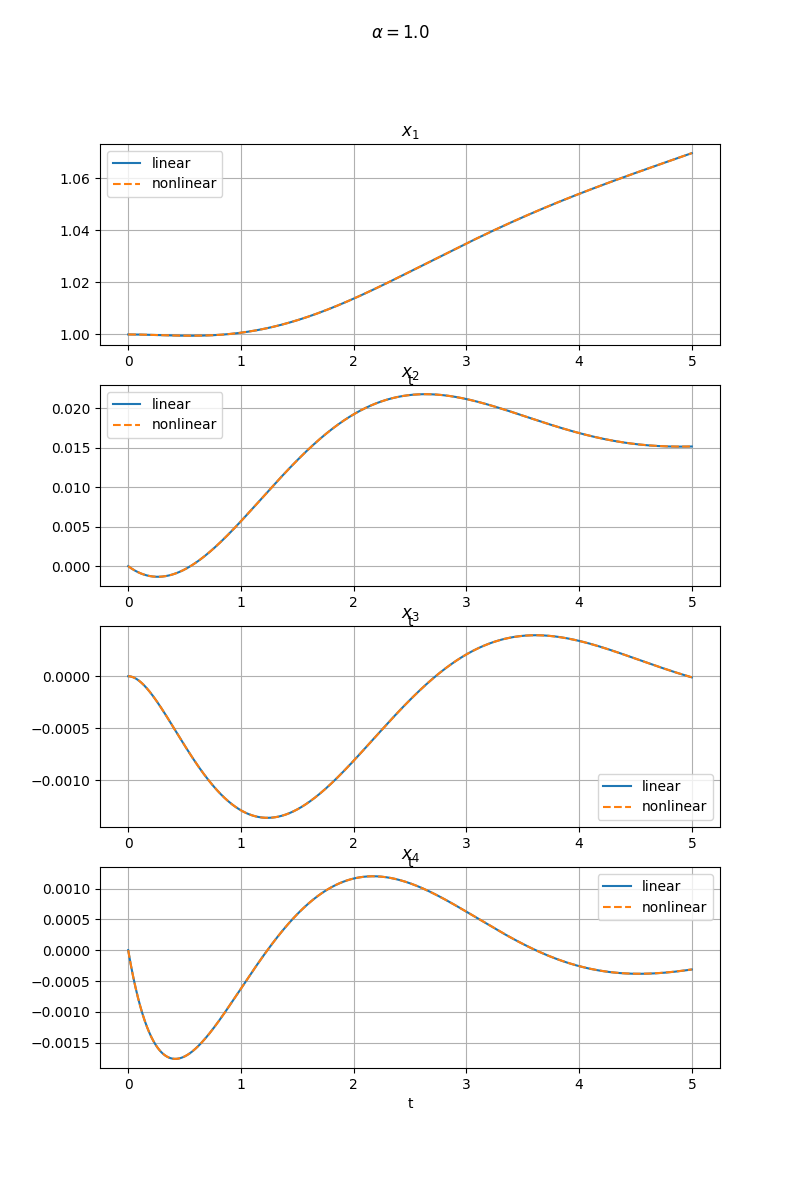
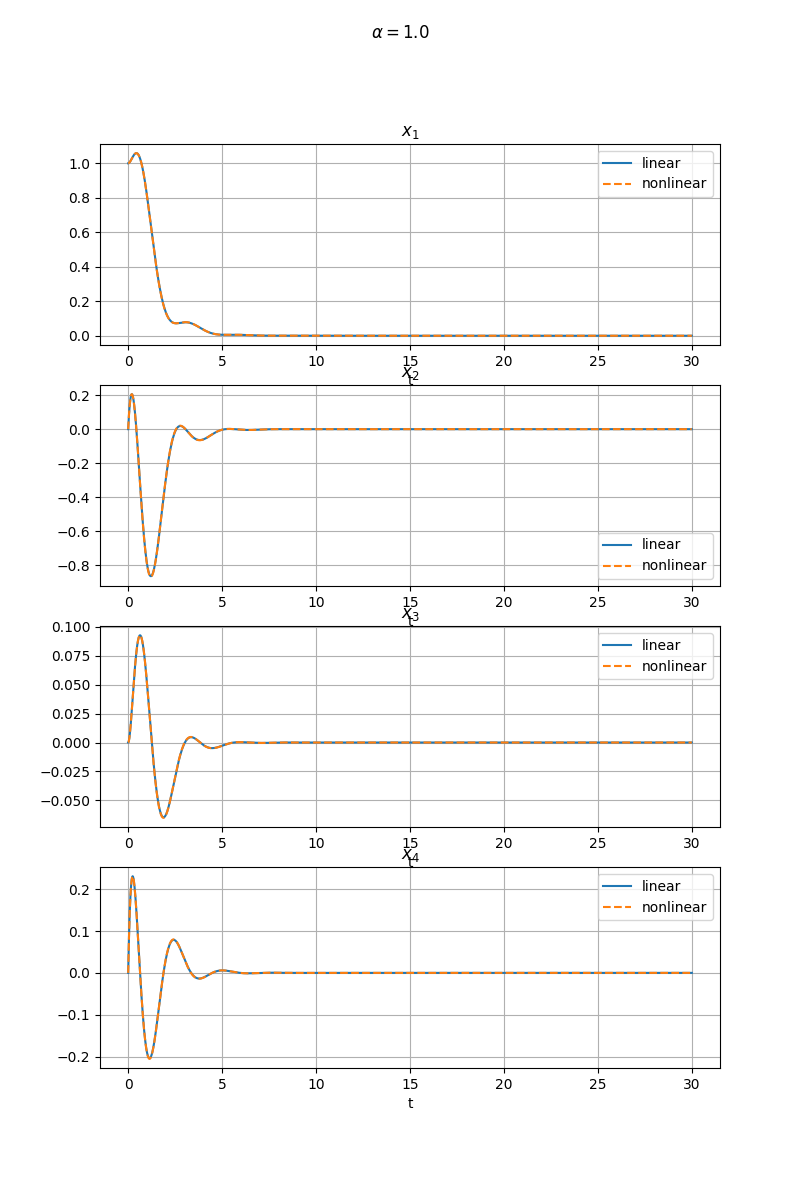
chapter 4 task 3 final reports

diff --git a/kurs/chapter4.py b/kurs/chapter4.py
@@ -203,8 +203,8 @@ def draw_compare_nonlinear_alpha_mu(A, B, x0, alpha, time):
 
 def task3(A, B, C, D):
     x0 = np.array([1.0, 0.0, 0.0, 0.0])
-    time = set_time(5)
-    alphas = [0.0, 0.5, 1.0]
+    time = set_time(30)
+    alphas = [0.1, 0.5, 1.0]
 
     for alpha in alphas:
         draw_compare_nonlinear_alpha_mu(A, B, x0, alpha, time)
